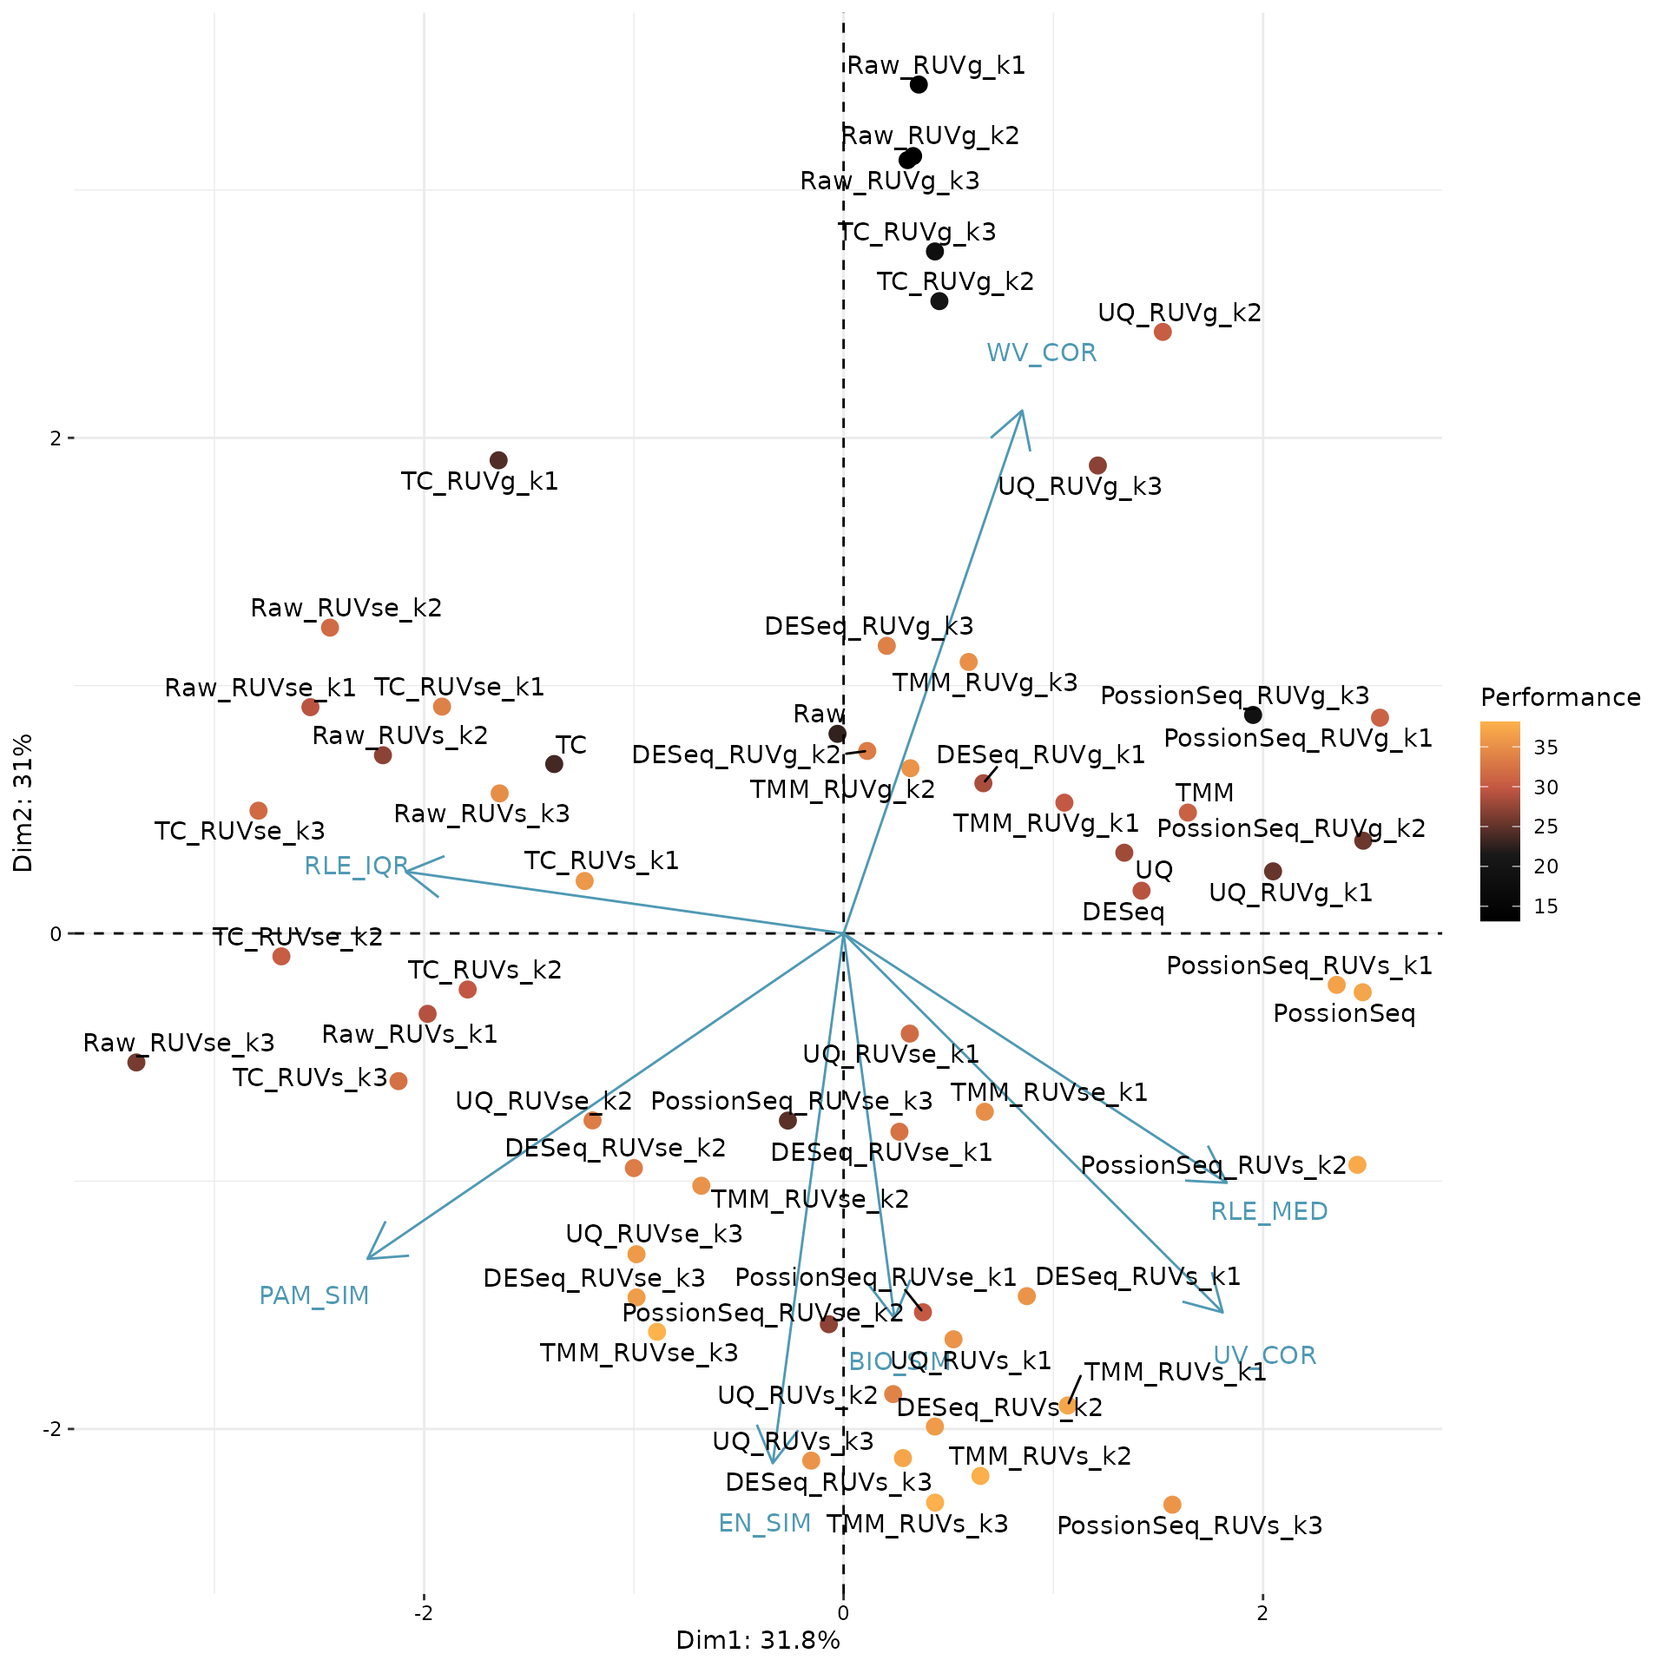
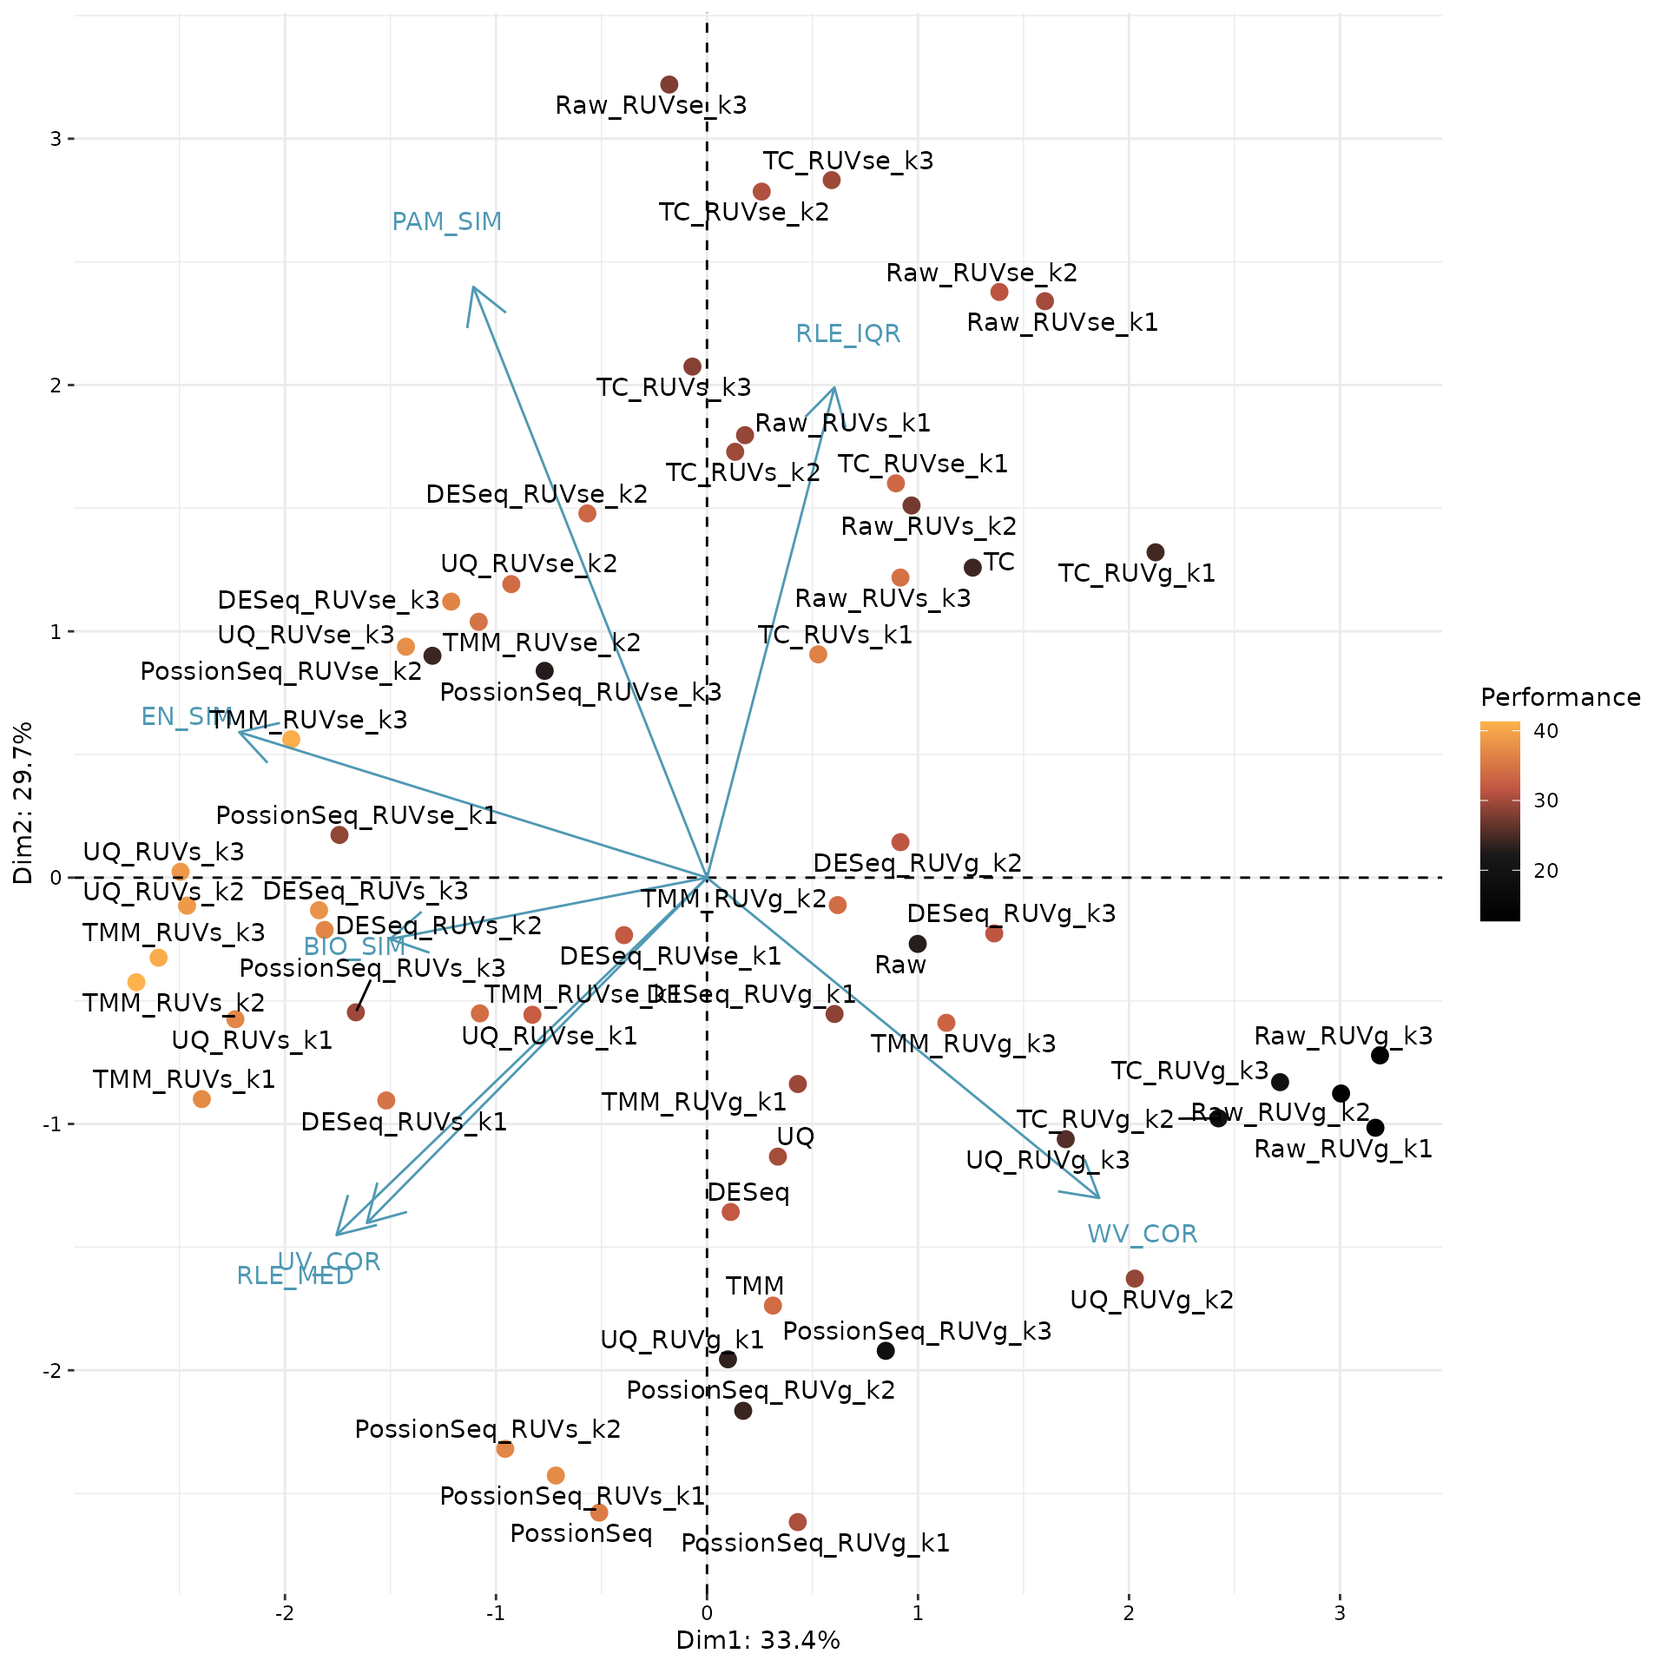
Deploying to gh-pages from @ thereallda/enONE@104f7c6b2057e2e187190ecdb239b8fd22d3fa3c 🚀

diff --git a/articles/enONE_tutorial.html b/articles/enONE_tutorial.html
@@ -237,7 +237,7 @@ use all samples in following analysis.</p>
 <span><span class="co">## all samples pass the test</span></span>
 <span><span class="fu">EnvStats</span><span class="fu">::</span><span class="fu"><a href="https://rdrr.io/pkg/EnvStats/man/rosnerTest.html" class="external-link">rosnerTest</a></span><span class="op">(</span><span class="va">pc</span><span class="op">$</span><span class="va">x</span><span class="op">[</span>,<span class="fl">1</span><span class="op">]</span><span class="op">)</span><span class="op">$</span><span class="va">all.stats</span></span>
 <span><span class="co">#&gt;   i        Mean.i     SD.i    Value Obs.Num    R.i+1 lambda.i+1 Outlier</span></span>
-<span><span class="co">#&gt; 1 0  4.350301e-15 118.1289 144.0791      32 1.219678   2.990585   FALSE</span></span>
+<span><span class="co">#&gt; 1 0 -1.381495e-14 118.1289 144.0791      32 1.219678   2.990585   FALSE</span></span>
 <span><span class="co">#&gt; 2 1 -4.116547e+00 117.2043 138.1465      28 1.213804   2.978183   FALSE</span></span>
 <span><span class="co">#&gt; 3 2 -8.300754e+00 116.2832 133.1332      27 1.216288   2.965315   FALSE</span></span></code></pre></div>
 </div>
@@ -345,13 +345,13 @@ effect was assumed to be constant.</p>
 <p>Normalized counts can be assessed by <code>Counts</code></p>
 <div class="sourceCode" id="cb8"><pre class="downlit sourceCode r">
 <code class="sourceCode R"><span><span class="fu"><a href="https://rdrr.io/r/utils/head.html" class="external-link">head</a></span><span class="op">(</span><span class="fu"><a href="../reference/Counts.html">Counts</a></span><span class="op">(</span><span class="va">Enone</span>, slot<span class="op">=</span><span class="st">"sample"</span>, method<span class="op">=</span><span class="st">"TMM_RUVse_k3"</span><span class="op">)</span><span class="op">)</span><span class="op">[</span>,<span class="fl">1</span><span class="op">:</span><span class="fl">5</span><span class="op">]</span></span>
-<span><span class="co">#&gt;                             C1          C2          C3          C5          C6</span></span>
-<span><span class="co">#&gt; ENSCAFG00845015217   0.1270775   0.1580804   0.5073167   0.1972178   0.1473110</span></span>
-<span><span class="co">#&gt; ENSCAFG00845015316   0.6467976   1.1029219   0.7496786   0.9257258   0.6365079</span></span>
-<span><span class="co">#&gt; ENSCAFG00845015457 213.0782649 191.3361797 145.7496546 223.9916657 182.9394510</span></span>
-<span><span class="co">#&gt; ENSCAFG00845015550  22.7519362  26.4536677  24.4529529  20.3535993  24.0241785</span></span>
-<span><span class="co">#&gt; ENSCAFG00845015637   4.1985951   4.7444409   4.4990044   4.1284498   5.3711438</span></span>
-<span><span class="co">#&gt; ENSCAFG00845015701   4.7503025   5.2315408   5.1139479   6.6107143   6.7737966</span></span></code></pre></div>
+<span><span class="co">#&gt;                            C1          C2         C3         C5         C6</span></span>
+<span><span class="co">#&gt; ENSCAFG00845015217   0.000000   0.0000000   0.000000   0.000000   0.000000</span></span>
+<span><span class="co">#&gt; ENSCAFG00845015316   0.000000   0.1029219   0.000000   0.000000   0.000000</span></span>
+<span><span class="co">#&gt; ENSCAFG00845015457 212.078265 190.3361797 144.749655 222.991666 181.939451</span></span>
+<span><span class="co">#&gt; ENSCAFG00845015550  21.751936  25.4536677  23.452953  19.353599  23.024178</span></span>
+<span><span class="co">#&gt; ENSCAFG00845015637   3.198595   3.7444409   3.499004   3.128450   4.371144</span></span>
+<span><span class="co">#&gt; ENSCAFG00845015701   3.750302   4.2315408   4.113948   5.610714   5.773797</span></span></code></pre></div>
 </div>
 <div class="section level4">
 <h4 id="evaluation">Evaluation<a class="anchor" aria-label="anchor" href="#evaluation"></a>
@@ -398,34 +398,34 @@ of RLE. Low values of <code>RLE_IQR</code> is desirable.</p></li>
 <p>Evaluation metrics can be assessed by <code>getMetrics</code></p>
 <div class="sourceCode" id="cb9"><pre class="downlit sourceCode r">
 <code class="sourceCode R"><span><span class="fu"><a href="../reference/getMetrics.html">getMetrics</a></span><span class="op">(</span><span class="va">Enone</span><span class="op">)</span><span class="op">[</span><span class="fl">1</span><span class="op">:</span><span class="fl">5</span>,<span class="op">]</span></span>
-<span><span class="co">#&gt;                        BIO_SIM    EN_SIM BATCH_SIM   PAM_SIM      RLE_MED</span></span>
-<span><span class="co">#&gt; TMM_RUVse_k3       0.004010675 0.3672915         0 0.7215727 0.0012331000</span></span>
-<span><span class="co">#&gt; TMM_RUVs_k3        0.264969797 0.3526664         0 0.6917263 0.0013922471</span></span>
-<span><span class="co">#&gt; TMM_RUVs_k2        0.273545725 0.3529028         0 0.6912465 0.0014106631</span></span>
-<span><span class="co">#&gt; PossionSeq_RUVs_k2 0.162922204 0.3557378         0 0.6791057 0.0001844717</span></span>
-<span><span class="co">#&gt; TMM_RUVs_k1        0.323222896 0.3572111         0 0.6832383 0.0017360384</span></span>
-<span><span class="co">#&gt;                       RLE_IQR    WV_COR    UV_COR</span></span>
-<span><span class="co">#&gt; TMM_RUVse_k3       0.02174805 0.8464516 0.3908795</span></span>
-<span><span class="co">#&gt; TMM_RUVs_k3        0.02437620 0.6853092 0.1459999</span></span>
-<span><span class="co">#&gt; TMM_RUVs_k2        0.02708899 0.7287250 0.1508830</span></span>
-<span><span class="co">#&gt; PossionSeq_RUVs_k2 0.07336386 0.9182946 0.2784424</span></span>
-<span><span class="co">#&gt; TMM_RUVs_k1        0.03318628 0.8619031 0.2170877</span></span></code></pre></div>
+<span><span class="co">#&gt;                  BIO_SIM    EN_SIM BATCH_SIM   PAM_SIM      RLE_MED    RLE_IQR</span></span>
+<span><span class="co">#&gt; TMM_RUVs_k2  0.278592119 0.3611790         0 0.6945911 0.0001712504 0.03972549</span></span>
+<span><span class="co">#&gt; TMM_RUVse_k3 0.002308382 0.3669041         0 0.7233990 0.0001648237 0.03226268</span></span>
+<span><span class="co">#&gt; TMM_RUVs_k3  0.330328453 0.3569549         0 0.6935086 0.0002230423 0.03704901</span></span>
+<span><span class="co">#&gt; UQ_RUVs_k2   0.281589314 0.3631537         0 0.6959381 0.0009312077 0.04263192</span></span>
+<span><span class="co">#&gt; UQ_RUVs_k3   0.314761362 0.3601166         0 0.6949188 0.0010200989 0.03928136</span></span>
+<span><span class="co">#&gt;                 WV_COR    UV_COR</span></span>
+<span><span class="co">#&gt; TMM_RUVs_k2  0.7590828 0.1651439</span></span>
+<span><span class="co">#&gt; TMM_RUVse_k3 0.8452121 0.3749096</span></span>
+<span><span class="co">#&gt; TMM_RUVs_k3  0.7369012 0.1430382</span></span>
+<span><span class="co">#&gt; UQ_RUVs_k2   0.7587947 0.1828784</span></span>
+<span><span class="co">#&gt; UQ_RUVs_k3   0.7278541 0.1643650</span></span></code></pre></div>
 <p>Evaluation score is the average rank of each performance metrics,
 which can be assessed by <code>getScore</code></p>
 <div class="sourceCode" id="cb10"><pre class="downlit sourceCode r">
 <code class="sourceCode R"><span><span class="fu"><a href="../reference/getScore.html">getScore</a></span><span class="op">(</span><span class="va">Enone</span><span class="op">)</span><span class="op">[</span><span class="fl">1</span><span class="op">:</span><span class="fl">5</span>,<span class="op">]</span></span>
-<span><span class="co">#&gt;                    BIO_SIM EN_SIM BATCH_SIM PAM_SIM RLE_MED RLE_IQR WV_COR</span></span>
-<span><span class="co">#&gt; TMM_RUVse_k3            29     54         1      48      47      45     15</span></span>
-<span><span class="co">#&gt; TMM_RUVs_k3             50     36         1      36      46      37      3</span></span>
-<span><span class="co">#&gt; TMM_RUVs_k2             52     37         1      35      45      31      8</span></span>
-<span><span class="co">#&gt; PossionSeq_RUVs_k2      43     43         1      17      59       7     43</span></span>
-<span><span class="co">#&gt; TMM_RUVs_k1             55     47         1      25      39      22     19</span></span>
-<span><span class="co">#&gt;                    UV_COR    SCORE</span></span>
-<span><span class="co">#&gt; TMM_RUVse_k3           29 38.14286</span></span>
-<span><span class="co">#&gt; TMM_RUVs_k3            58 38.00000</span></span>
-<span><span class="co">#&gt; TMM_RUVs_k2            57 37.85714</span></span>
-<span><span class="co">#&gt; PossionSeq_RUVs_k2     50 37.42857</span></span>
-<span><span class="co">#&gt; TMM_RUVs_k1            53 37.14286</span></span></code></pre></div>
+<span><span class="co">#&gt;              BIO_SIM EN_SIM BATCH_SIM PAM_SIM RLE_MED RLE_IQR WV_COR UV_COR</span></span>
+<span><span class="co">#&gt; TMM_RUVs_k2       50     46         1      37      59      31     10     56</span></span>
+<span><span class="co">#&gt; TMM_RUVse_k3      29     50         1      50      60      40     18     39</span></span>
+<span><span class="co">#&gt; TMM_RUVs_k3       56     37         1      35      57      37      5     58</span></span>
+<span><span class="co">#&gt; UQ_RUVs_k2        51     47         1      39      44      27      9     55</span></span>
+<span><span class="co">#&gt; UQ_RUVs_k3        54     43         1      38      43      32      4     57</span></span>
+<span><span class="co">#&gt;                 SCORE</span></span>
+<span><span class="co">#&gt; TMM_RUVs_k2  41.28571</span></span>
+<span><span class="co">#&gt; TMM_RUVse_k3 40.85714</span></span>
+<span><span class="co">#&gt; TMM_RUVs_k3  40.71429</span></span>
+<span><span class="co">#&gt; UQ_RUVs_k2   38.85714</span></span>
+<span><span class="co">#&gt; UQ_RUVs_k3   38.71429</span></span></code></pre></div>
 </div>
 </div>
 </div>
@@ -462,7 +462,7 @@ analysis.</p>
 <span><span class="va">norm.factors</span> <span class="op">&lt;-</span> <span class="fu"><a href="../reference/getFactor.html">getFactor</a></span><span class="op">(</span><span class="va">Enone</span>, slot <span class="op">=</span> <span class="st">'sample'</span>, method <span class="op">=</span> <span class="va">norm.method</span><span class="op">)</span></span>
 <span></span>
 <span><span class="va">norm.method</span></span>
-<span><span class="co">#&gt; [1] "TMM_RUVse_k3"</span></span></code></pre></div>
+<span><span class="co">#&gt; [1] "TMM_RUVs_k2"</span></span></code></pre></div>
 <blockquote>
 <p>To be noted, if normalized counts are not returned in
 <code>enONE</code> run step (i.e., <code>return.norm=FALSE</code>), you
@@ -526,9 +526,9 @@ result tables.</p>
 <span><span class="co"># count number of enrichment in each group</span></span>
 <span><span class="fu"><a href="https://rdrr.io/r/base/unlist.html" class="external-link">unlist</a></span><span class="op">(</span><span class="fu"><a href="https://rdrr.io/r/base/lapply.html" class="external-link">lapply</a></span><span class="op">(</span><span class="va">res.sig.ls</span>, <span class="va">nrow</span><span class="op">)</span><span class="op">)</span></span>
 <span><span class="co">#&gt;   D0_ctrl.Enrich_D0_ctrl.Input D14_ctrl.Enrich_D14_ctrl.Input </span></span>
-<span><span class="co">#&gt;                           2167                           2102 </span></span>
+<span><span class="co">#&gt;                           2312                           2232 </span></span>
 <span><span class="co">#&gt;     D0_nmn.Enrich_D0_nmn.Input   D14_nmn.Enrich_D14_nmn.Input </span></span>
-<span><span class="co">#&gt;                           2688                           2402</span></span></code></pre></div>
+<span><span class="co">#&gt;                           2841                           2312</span></span></code></pre></div>
 <p>Each enrichment table is a <code>data.frame</code> with a list of
 genes as rows, and associated information as columns (GeneID, logFC,
 p-values, etc.). The following columns are present in the table:</p>
@@ -553,12 +553,12 @@ method is applied.</li>
 <div class="sourceCode" id="cb16"><pre class="downlit sourceCode r">
 <code class="sourceCode R"><span><span class="fu"><a href="https://rdrr.io/r/utils/head.html" class="external-link">head</a></span><span class="op">(</span><span class="va">res.sig.ls</span><span class="op">[[</span><span class="fl">1</span><span class="op">]</span><span class="op">]</span><span class="op">)</span></span>
 <span><span class="co">#&gt;               GeneID    logFC    logCPM       LR        PValue           FDR</span></span>
-<span><span class="co">#&gt; 1 ENSCAFG00845007784 2.959802  8.717648 509.4189 8.484765e-113 1.231648e-108</span></span>
-<span><span class="co">#&gt; 2 ENSCAFG00845002083 3.157457 12.584706 375.8864  9.784997e-84  7.101951e-80</span></span>
-<span><span class="co">#&gt; 3 ENSCAFG00845009430 2.510118  7.642940 340.5231  4.908601e-76  2.375108e-72</span></span>
-<span><span class="co">#&gt; 4 ENSCAFG00845000887 2.287440  7.351301 299.2720  4.746529e-67  1.722515e-63</span></span>
-<span><span class="co">#&gt; 5 ENSCAFG00845007809 3.177614  6.102379 295.1592  3.736355e-66  1.084738e-62</span></span>
-<span><span class="co">#&gt; 6 ENSCAFG00845016135 2.327771  9.398165 293.5746  8.273551e-66  2.001648e-62</span></span></code></pre></div>
+<span><span class="co">#&gt; 1 ENSCAFG00845007784 3.055073  8.717684 878.7366 4.114221e-193 5.972203e-189</span></span>
+<span><span class="co">#&gt; 2 ENSCAFG00845002083 3.113414 12.584709 664.1688 1.852380e-146 1.344457e-142</span></span>
+<span><span class="co">#&gt; 3 ENSCAFG00845009430 2.460452  7.643004 591.0913 1.450530e-130 7.018629e-127</span></span>
+<span><span class="co">#&gt; 4 ENSCAFG00845018743 2.407697  9.528866 578.4103 8.315389e-128 3.017655e-124</span></span>
+<span><span class="co">#&gt; 5 ENSCAFG00845021389 2.759788  8.554199 564.7637 7.733279e-125 2.245125e-121</span></span>
+<span><span class="co">#&gt; 6 ENSCAFG00845000887 2.353257  7.351376 553.5413 2.136043e-122 5.167800e-119</span></span></code></pre></div>
 <p>To convert list of enrichment result tables into data frame in long
 format, <code>enONE</code> package provide <code>reduceRes</code>
 function for this task. Finally, you can use
@@ -688,7 +688,7 @@ no enrichment is found for Syn2 made up with 100% m7G-RNA.</p>
 <span><span class="co">#&gt;  [65] pkgconfig_2.0.3             XML_3.99-0.13              </span></span>
 <span><span class="co">#&gt;  [67] flexmix_2.3-18              nnet_7.3-18                </span></span>
 <span><span class="co">#&gt;  [69] sass_0.4.4                  dbplyr_2.2.1               </span></span>
-<span><span class="co">#&gt;  [71] locfit_1.5-9.6              utf8_1.2.2                 </span></span>
+<span><span class="co">#&gt;  [71] locfit_1.5-9.7              utf8_1.2.2                 </span></span>
 <span><span class="co">#&gt;  [73] labeling_0.4.2              tidyselect_1.2.0           </span></span>
 <span><span class="co">#&gt;  [75] rlang_1.0.6                 AnnotationDbi_1.58.0       </span></span>
 <span><span class="co">#&gt;  [77] munsell_0.5.0               cellranger_1.1.0           </span></span>

diff --git a/reference/PS.Est.Depth.html b/reference/PS.Est.Depth.html
@@ -92,7 +92,7 @@
     <h2 id="ref-examples">Examples<a class="anchor" aria-label="anchor" href="#ref-examples"></a></h2>
     <div class="sourceCode"><pre class="sourceCode r"><code><span class="r-in"><span><span class="va">mat</span> <span class="op">&lt;-</span> <span class="fu"><a href="https://rdrr.io/r/base/matrix.html" class="external-link">matrix</a></span><span class="op">(</span><span class="fu"><a href="https://rdrr.io/r/stats/NegBinomial.html" class="external-link">rnbinom</a></span><span class="op">(</span><span class="fl">300</span>, mu<span class="op">=</span><span class="fl">100</span>, size<span class="op">=</span><span class="fl">1</span><span class="op">)</span>, ncol<span class="op">=</span><span class="fl">5</span><span class="op">)</span></span></span>
 <span class="r-in"><span><span class="fu">PS.Est.Depth</span><span class="op">(</span><span class="va">mat</span><span class="op">)</span></span></span>
-<span class="r-out co"><span class="r-pr">#&gt;</span> [1] 1.2165776 1.2211414 0.9932776 0.8335447 0.8130077</span>
+<span class="r-out co"><span class="r-pr">#&gt;</span> [1] 1.5134707 1.1711764 1.1751149 0.6162013 0.7791134</span>
 <span class="r-in"><span></span></span>
 </code></pre></div>
     </div>

diff --git a/authors.html b/authors.html
@@ -65,14 +65,14 @@
       <h2 id="citation">Citation</h2>
       <p></p>
 
-      <p>Li D (2022).
+      <p>Li D (2023).
 <em>enONE: Epitranscriptional NAD-capped RNA analysis by spike-in based Omic-level Normalization and Evaluation</em>.
 R package version 0.1.0, <a href="https://thereallda.github.io/enONE/">https://thereallda.github.io/enONE/</a>. 
 </p>
       <pre>@Manual{,
   title = {enONE: Epitranscriptional NAD-capped RNA analysis by spike-in based Omic-level Normalization and Evaluation},
   author = {Dean Li},
-  year = {2022},
+  year = {2023},
   note = {R package version 0.1.0},
   url = {https://thereallda.github.io/enONE/},
 }</pre>

diff --git a/reference/normRUV.html b/reference/normRUV.html
@@ -102,8 +102,8 @@ difference between enrichment and input.</p></dd>
 
 
 <dt>log</dt>
-<dd><p>Whether to perform log2-transformation with 1 offset on data matrix,
-default: TRUE.</p></dd>
+<dd><p>Whether to perform log2-transformation with 1 offset on data
+matrix (default: TRUE), while normalized counts are returned in non-log format.</p></dd>
 
 </dl></div>
     <div class="section level2">
